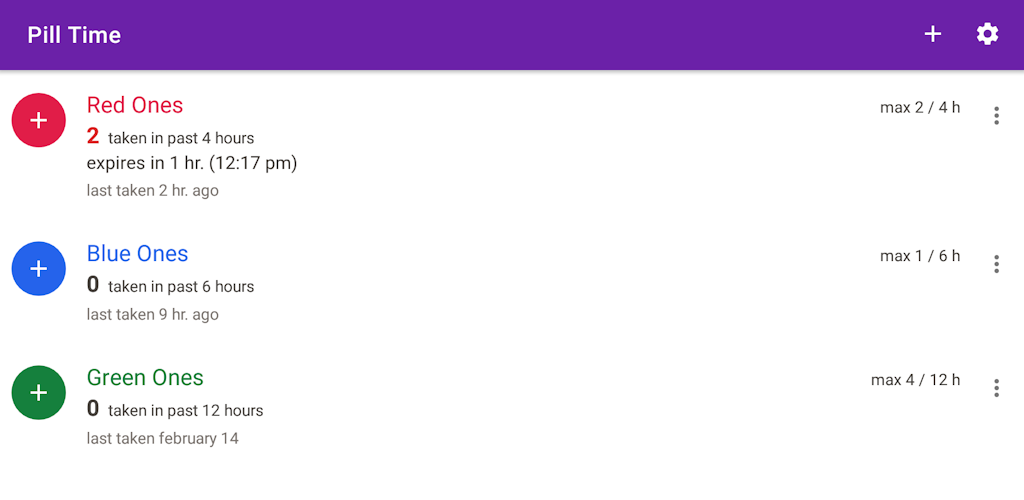
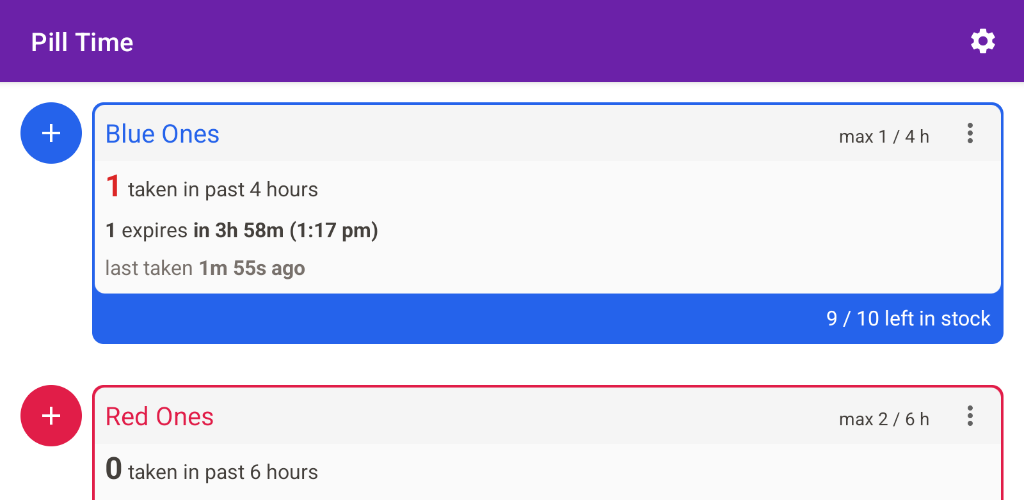
Update readme, screenshots, and fastlane data

diff --git a/README.md b/README.md
@@ -25,9 +25,10 @@
 * Free and open source
 * Enter your custom meds and their dosage limitations
 * Receive a notification when a dose expires
+* Track remaining inventory of your meds
 * Light and dark themes
 
-Made by [C. Liam Brown](https://cliambrown.com).
+Made by [C. Liam Brown](https://cliambrown.com) with notable contributions from [@mrmaffen](https://github.com/mrmaffen).
 
 ## Disclaimer
 
@@ -45,11 +46,7 @@ The full privacy policy is available <a href="https://github.com/cliambrown/Pill
 
 ## Screenshots
 
-<a href="https://raw.githubusercontent.com/cliambrown/PillTime/master/pilltime_screenshot_1.png"><img src="https://raw.githubusercontent.com/cliambrown/PillTime/master/pilltime_screenshot_1.png" width="200px" alt="Screenshot 1"></a> <a href="https://raw.githubusercontent.com/cliambrown/PillTime/master/pilltime_screenshot_2.png"><img src="https://raw.githubusercontent.com/cliambrown/PillTime/master/pilltime_screenshot_2.png" width="200px" alt="Screenshot 2"></a> <a href="https://raw.githubusercontent.com/cliambrown/PillTime/master/pilltime_screenshot_3.png"><img src="https://raw.githubusercontent.com/cliambrown/PillTime/master/pilltime_screenshot_3.png" width="200px" alt="Screenshot 3"></a> <a href="https://raw.githubusercontent.com/cliambrown/PillTime/master/pilltime_screenshot_4.png"><img src="https://raw.githubusercontent.com/cliambrown/PillTime/master/pilltime_screenshot_4.png" width="200px" alt="Screenshot 4"></a> <a href="https://raw.githubusercontent.com/cliambrown/PillTime/master/pilltime_screenshot_7.png"><img src="https://raw.githubusercontent.com/cliambrown/PillTime/master/pilltime_screenshot_7.png" width="200px" alt="Screenshot 7"></a> <a href="https://raw.githubusercontent.com/cliambrown/PillTime/master/pilltime_screenshot_6.png"><img src="https://raw.githubusercontent.com/cliambrown/PillTime/master/pilltime_screenshot_6.png" width="200px" alt="Screenshot 6"></a> <a href="https://raw.githubusercontent.com/cliambrown/PillTime/master/pilltime_screenshot_5.png"><img src="https://raw.githubusercontent.com/cliambrown/PillTime/master/pilltime_screenshot_5.png" width="200px" alt="Screenshot 5"></a>
-
-## Installation for development
-
-Clone the repo, open the project in Android Studio, hit "Run".
+<a href="https://raw.githubusercontent.com/cliambrown/PillTime/main/pilltime_v11_screenshot_1.png"><img src="https://raw.githubusercontent.com/cliambrown/PillTime/main/pilltime_v11_screenshot_1.png" width="200px" alt="Screenshot 1"></a> <a href="https://raw.githubusercontent.com/cliambrown/PillTime/main/pilltime_v11_screenshot_2.png"><img src="https://raw.githubusercontent.com/cliambrown/PillTime/main/pilltime_v11_screenshot_2.png" width="200px" alt="Screenshot 2"></a> <a href="https://raw.githubusercontent.com/cliambrown/PillTime/main/pilltime_v11_screenshot_3.png"><img src="https://raw.githubusercontent.com/cliambrown/PillTime/main/pilltime_v11_screenshot_3.png" width="200px" alt="Screenshot 3"></a> <a href="https://raw.githubusercontent.com/cliambrown/PillTime/main/pilltime_v11_screenshot_4.png"><img src="https://raw.githubusercontent.com/cliambrown/PillTime/main/pilltime_v11_screenshot_4.png" width="200px" alt="Screenshot 4"></a> <a href="https://raw.githubusercontent.com/cliambrown/PillTime/main/pilltime_v11_screenshot_5.png"><img src="https://raw.githubusercontent.com/cliambrown/PillTime/main/pilltime_v11_screenshot_5.png" width="200px" alt="Screenshot 5"></a> <a href="https://raw.githubusercontent.com/cliambrown/PillTime/main/pilltime_v11_screenshot_6.png"><img src="https://raw.githubusercontent.com/cliambrown/PillTime/main/pilltime_v11_screenshot_6.png" width="200px" alt="Screenshot 6"></a> <a href="https://raw.githubusercontent.com/cliambrown/PillTime/main/pilltime_v11_screenshot_7.png"><img src="https://raw.githubusercontent.com/cliambrown/PillTime/main/pilltime_v11_screenshot_7.png" width="200px" alt="Screenshot 7"></a> <a href="https://raw.githubusercontent.com/cliambrown/PillTime/main/pilltime_v11_screenshot_8.png"><img src="https://raw.githubusercontent.com/cliambrown/PillTime/main/pilltime_v11_screenshot_8.png" width="200px" alt="Screenshot 8"></a> <a href="https://raw.githubusercontent.com/cliambrown/PillTime/main/pilltime_v11_screenshot_9.png"><img src="https://raw.githubusercontent.com/cliambrown/PillTime/main/pilltime_v11_screenshot_9.png" width="200px" alt="Screenshot 9"></a> <a href="https://raw.githubusercontent.com/cliambrown/PillTime/main/pilltime_v11_screenshot_10.png"><img src="https://raw.githubusercontent.com/cliambrown/PillTime/main/pilltime_v11_screenshot_10.png" width="200px" alt="Screenshot 10"></a> <a href="https://raw.githubusercontent.com/cliambrown/PillTime/main/pilltime_v11_screenshot_11.png"><img src="https://raw.githubusercontent.com/cliambrown/PillTime/main/pilltime_v11_screenshot_11.png" width="200px" alt="Screenshot 11"></a> <a href="https://raw.githubusercontent.com/cliambrown/PillTime/main/pilltime_v11_screenshot_12.png"><img src="https://raw.githubusercontent.com/cliambrown/PillTime/main/pilltime_v11_screenshot_12.png" width="200px" alt="Screenshot 12"></a> <a href="https://raw.githubusercontent.com/cliambrown/PillTime/main/pilltime_v11_screenshot_13.png"><img src="https://raw.githubusercontent.com/cliambrown/PillTime/main/pilltime_v11_screenshot_13.png" width="200px" alt="Screenshot 13"></a>
 
 ## License
 
